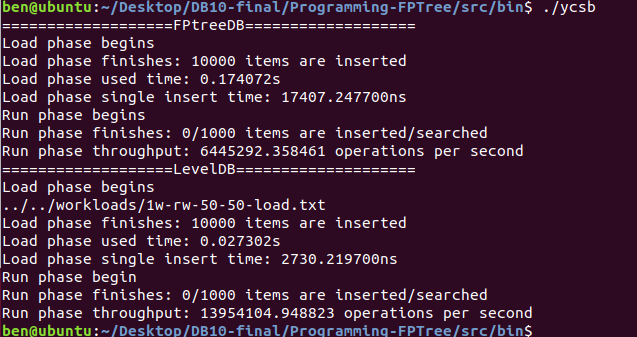
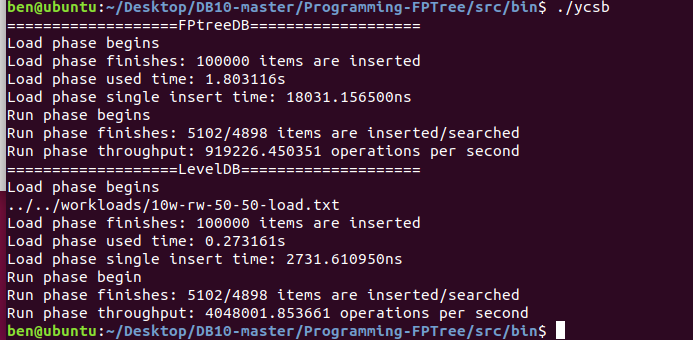
fix bug and add removeFile

Changed region(s): [[0.0, 0.0, 0.9545, 1.0]]

diff --git a/Programming-FPTree/src/ycsb.cpp b/Programming-FPTree/src/ycsb.cpp
@@ -1,6 +1,15 @@
+/**
+lycsb.cpp
+
+Author: Ben Tsai ( @BenTsai7 )
+
+Descrption:run leveldb and fptree, test them with YCSB Benchmark workloads
+
+**/
 #include "fptree/fptree.h"
 #include <leveldb/db.h>
 #include <string>
+#include <stdlib.h>
 
 #define KEY_LEN 8
 #define VALUE_LEN 8
@@ -8,11 +17,24 @@ using namespace std;
 
 const string workload = "../../workloads/"; // TODO: the workload folder filepath
 
-const string load = workload + "1w-rw-50-50-load.txt"; // TODO: the workload_load filename
-const string run  = workload + "1w-rw-50-50-run.txt"; // TODO: the workload_run filename
+const string load = workload + "10w-rw-50-50-load.txt"; // TODO: the workload_load filename
+const string run  = workload + "10w-rw-50-50-run.txt"; // TODO: the workload_run filename
 
-const int READ_WRITE_NUM = 10000; // TODO: amount of operations
+const int READ_WRITE_NUM = 100000; // TODO: amount of operations
 
+const string catalogPath = DATA_DIR + "p_allocator_catalog";
+const string freePath = DATA_DIR + "free_list";
+void removeFile(){
+	uint64_t maxfile = PAllocator::getAllocator()->getMaxFileId();
+    PAllocator::getAllocator()->~PAllocator();
+    for(uint64_t i=1;i<maxfile;++i){
+    const string file = DATA_DIR + to_string(i);
+    remove(file.c_str());
+    }
+    remove(catalogPath.c_str());
+    remove(freePath.c_str());
+	system("rm -rf leveldb");	
+};
 int main()
 {        
     FPTree fptree(1028);
@@ -190,5 +212,6 @@ int main()
     printf("Run phase throughput: %f operations per second \n", READ_WRITE_NUM/single_time);
     fclose(ycsb_load);
     fclose(ycsb_run);
+    removeFile();
     return 0;
 }

diff --git a/Programming-FPTree/src/lycsb.cpp b/Programming-FPTree/src/lycsb.cpp
@@ -8,7 +8,7 @@ Descrption:run leveldb and test it with YCSB Benchmark workloads
 **/
 #include <leveldb/db.h>
 #include <string>
-
+#include <stdlib.h>
 #define KEY_LEN 8
 #define VALUE_LEN 8
 using namespace std;
@@ -21,7 +21,9 @@ const string run  = workload + "220w-rw-50-50-run.txt"; // TODO: the workload_ru
 const string filePath = "leveldb";
 
 const int READ_WRITE_NUM = 350000; // TODO: how many operations
-
+void removeFile(){
+	system("rm -rf leveldb");	
+};
 int main()
 {        
     leveldb::DB* db;
@@ -141,6 +143,7 @@ int main()
 	clock_gettime(CLOCK_MONOTONIC, &finish);
 	single_time = (finish.tv_sec - start.tv_sec) + (finish.tv_nsec - start.tv_nsec) / 1000000000.0;
     printf("Run phase finishes: %lu/%lu items are inserted/searched\n", operation_num - inserted, inserted);
-    printf("Run phase throughput: %f operations per second \n", READ_WRITE_NUM/single_time);	
+    printf("Run phase throughput: %f operations per second \n", READ_WRITE_NUM/single_time);
+    removeFile();
     return 0;
 }

diff --git a/Programming-FPTree/src/fptree.cpp b/Programming-FPTree/src/fptree.cpp
@@ -211,7 +211,7 @@ KeyNode* InnerNode::split() {
     // TODO
     //left: d keys d pointers   right: d keys d pointers, push up the d+1th key 
     int d=nKeys/2;
-    int newMidKey=keys[d];
+    Key newMidKey=keys[d];
     InnerNode* newNode = new InnerNode(d,tree,false);
     newNode->nKeys=d;
     newNode->nChild=d+1;
@@ -659,7 +659,7 @@ KeyNode* LeafNode::split() {
     //LeafNode split when n = 2*d-1;
     LeafNode* newLeaf = new LeafNode(tree);
     memset(bitmap,0,bitmapSize);
-    int midkey=findSplitKey();
+    Key midkey=findSplitKey();
     for(int i=0;i<n/2;++i){ //original leaf
         fingerprints[i]=keyHash(getKey(i));
         setBit(i);

diff --git a/Programming-FPTree/src/main.cpp b/Programming-FPTree/src/main.cpp
@@ -50,4 +50,5 @@ int main() {
     end = clock();
     double t_dur = end - start;
     cout << "Find Used Time = " << (t_dur / CLOCKS_PER_SEC) << endl;
+    removeFile();
 }

diff --git a/Programming-FPTree/系统说明书.md b/Programming-FPTree/系统说明书.md
@@ -190,6 +190,8 @@ final实现的是树的删除，重分布，合并，通过了所有FPTree_TEST 
 ```shell
 		make clean
 ```
+新增了removeFile()函数，每次执行完程序会自动调用其清除data文件夹下的内容以及leveldb文件夹
+
 测试结果:
 
 ![1558264098856](../asset/ycsb.png)
